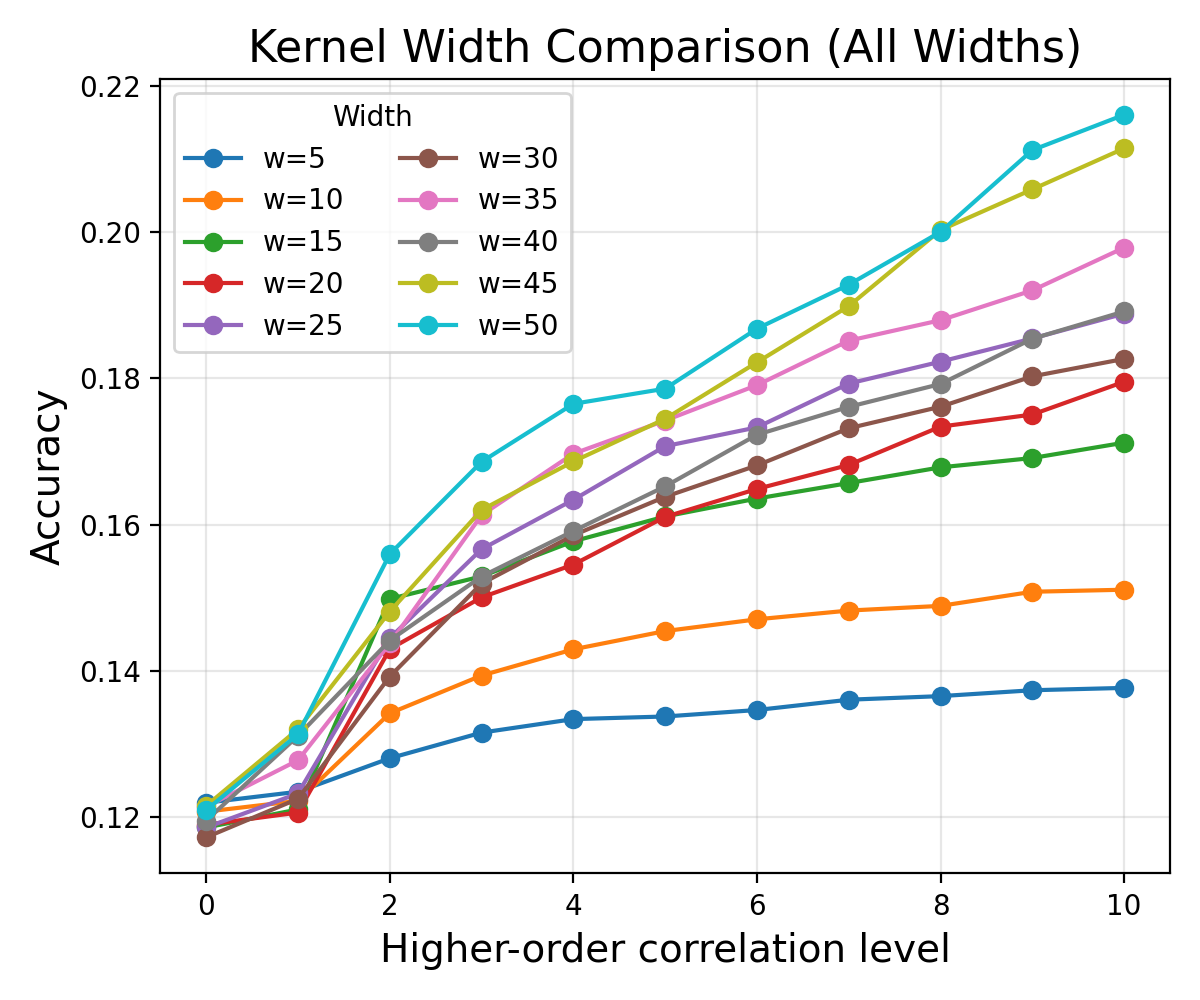
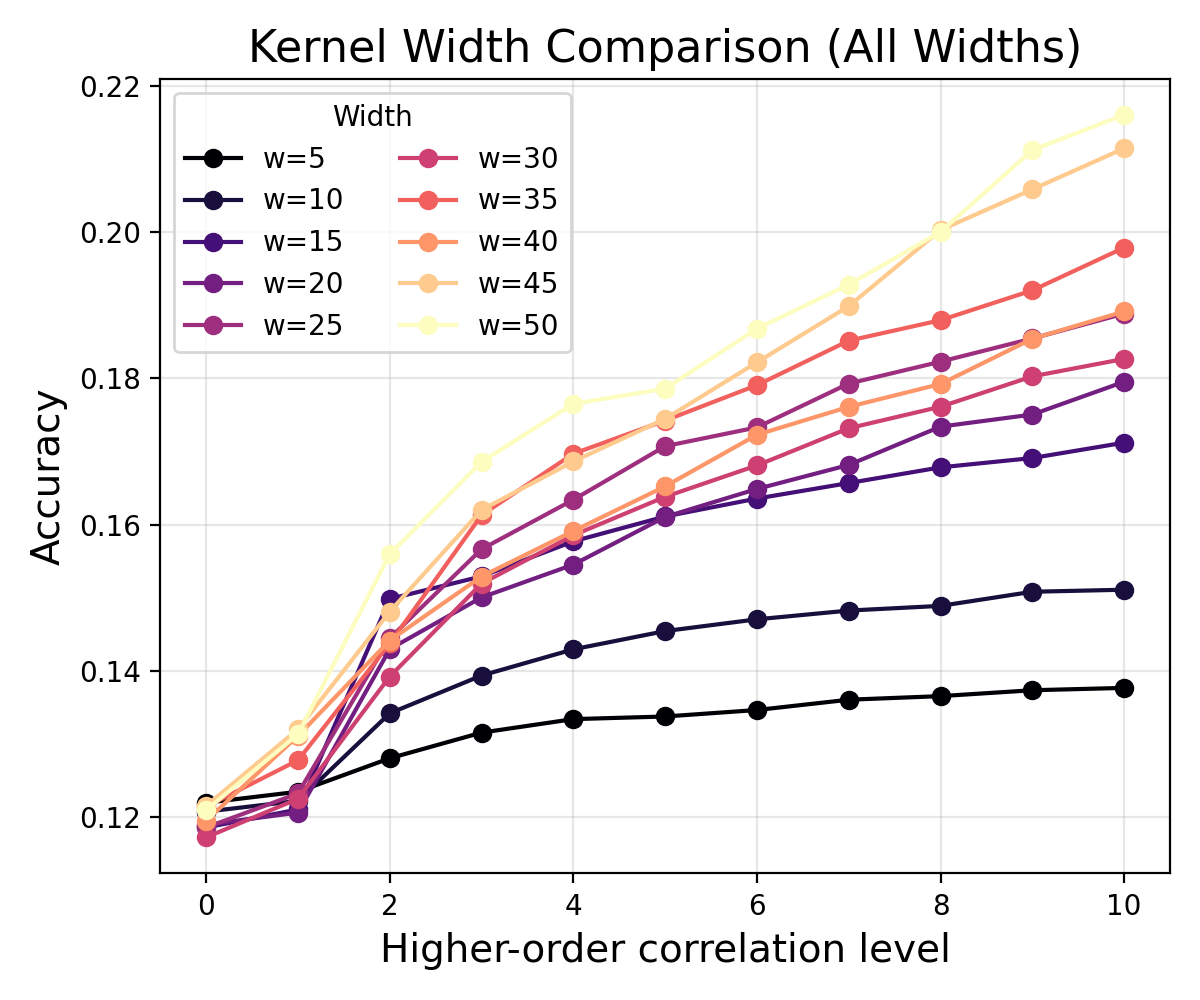
kernal width graph to magma colors, graphs pt5

diff --git a/Graphs/G_Script/Kernal_Width_Value.py b/Graphs/G_Script/Kernal_Width_Value.py
@@ -16,6 +16,7 @@ from pathlib import Path
 import math
 import pandas as pd
 import matplotlib.pyplot as plt
+import matplotlib.colors as mcolors
 
 # ---------------- CONFIG ----------------
 INPUT_ROOT  = Path("/app/Cluster_Data")
@@ -117,13 +118,19 @@ def main() -> int:
     # Sort widths and levels
     widths_sorted = sorted(summary_all["width"].unique())
     levels_sorted = sorted(summary_all["level"].unique())
+    
+    # Create a colormap (magma from cold→hot)
+    cmap = plt.cm.get_cmap("magma", len(widths_sorted))
+    norm = mcolors.Normalize(vmin=min(widths_sorted), vmax=max(widths_sorted))
+
 
     plt.figure(figsize=(6, 5))
     for w in widths_sorted:
         sub = summary_all[summary_all["width"] == w]
         if sub.empty:
             continue
-        plt.plot(sub["level"], sub["mean_acc"], marker="o", label=f"w={w}")
+        color = cmap(norm(w))
+        plt.plot(sub["level"], sub["mean_acc"], color=color, marker="o", label=f"w={w}")
     plt.xlabel("Higher-order correlation level", fontsize=14)
     plt.ylabel("Accuracy", fontsize=14)
     plt.title("Kernel Width Comparison (All Widths)", fontsize=16)
